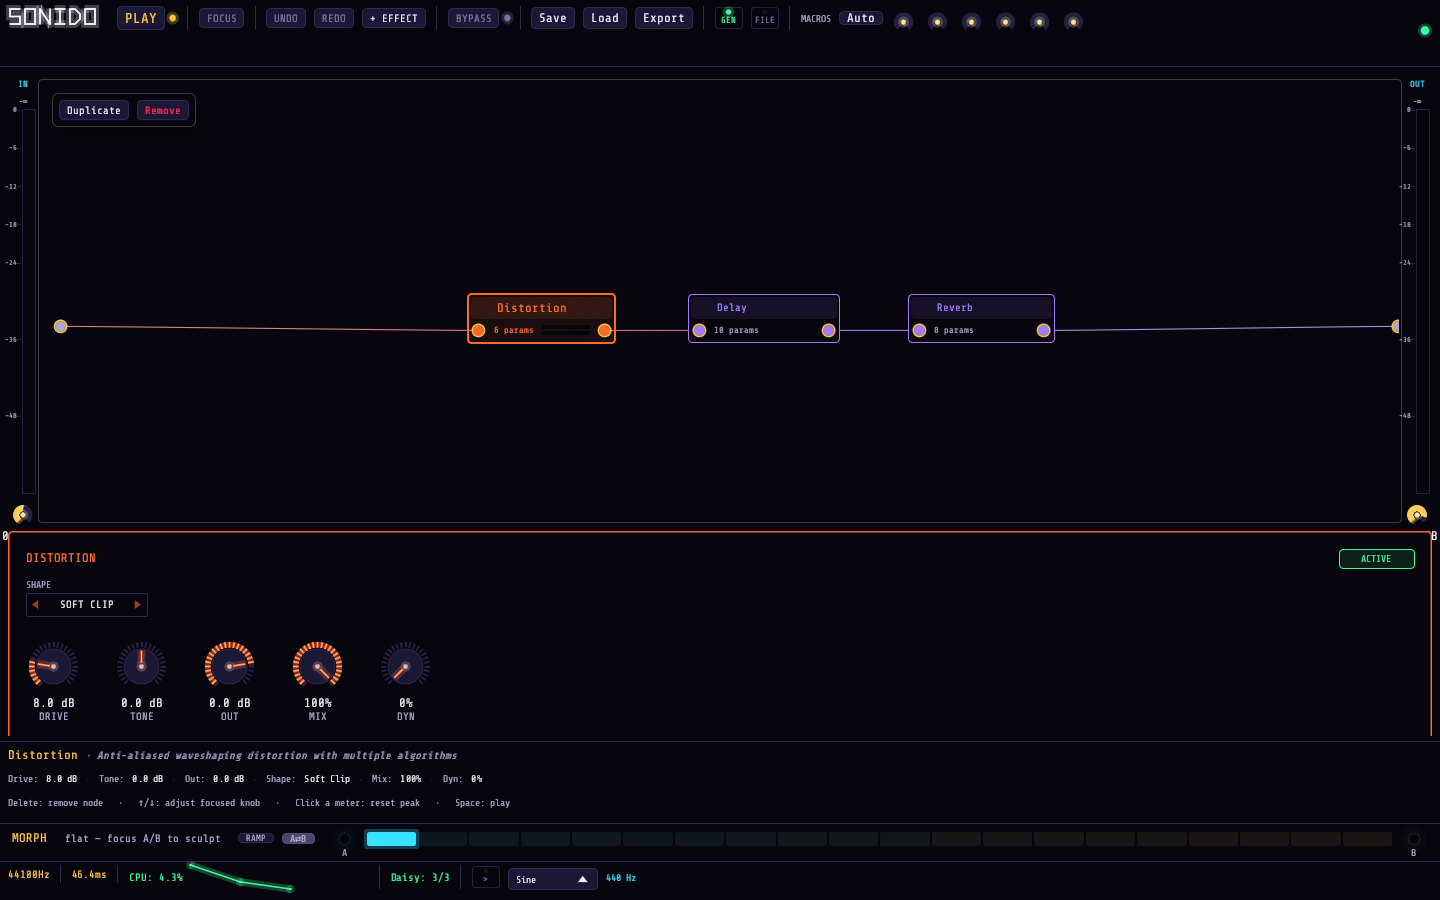
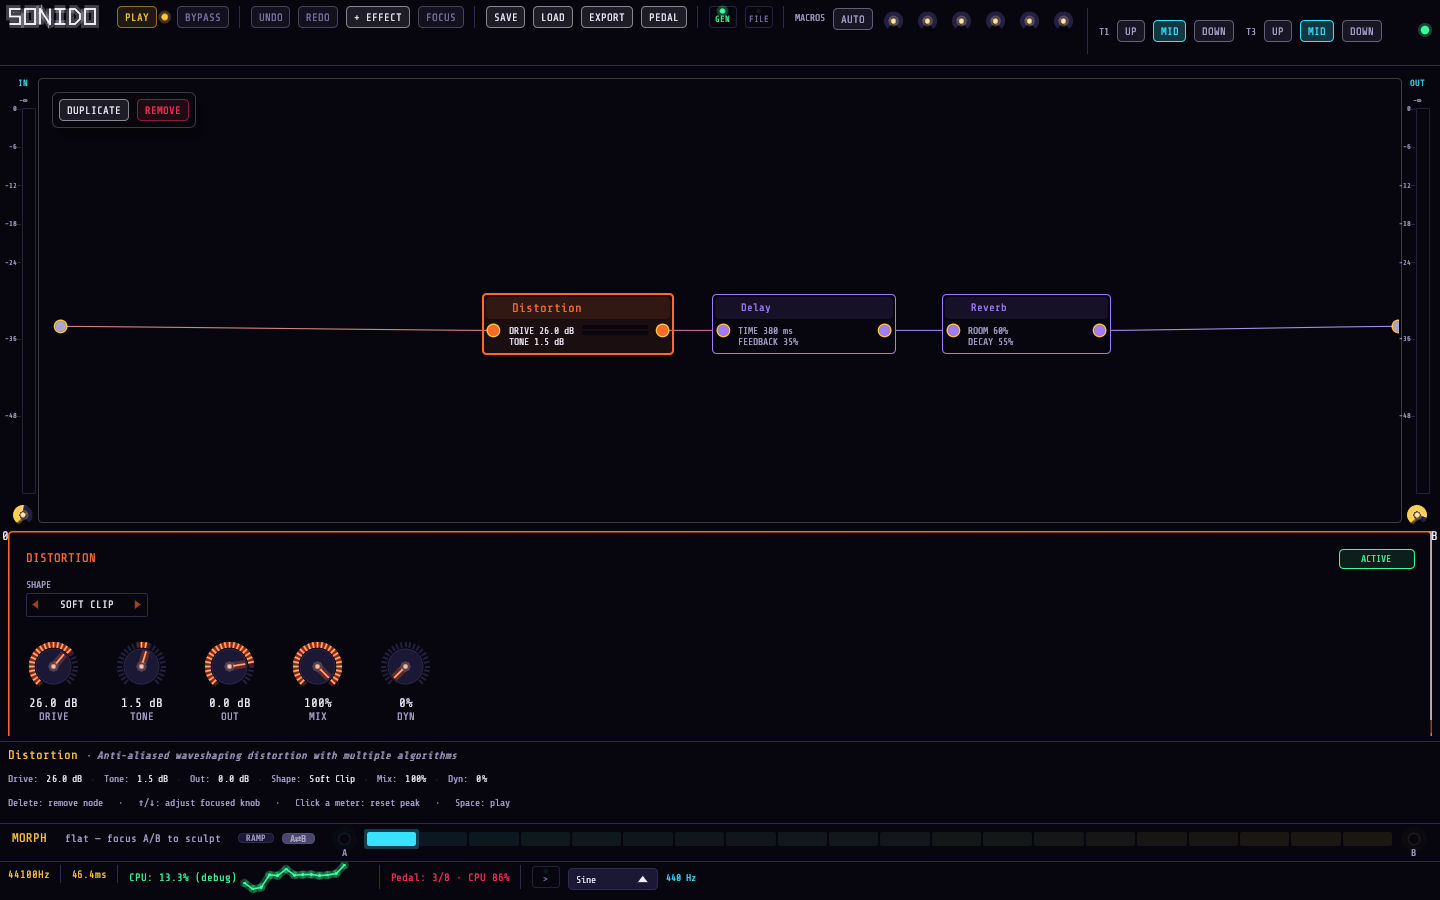
docs: the pictures, the chip, the header and nodes, and new screenshots
DESIGN_SYSTEM.md: the screen's family pictures replace the sun (a table
of what each family shows and where it comes from), bypass shows INSERT
COIN lit and still, the slit and swell lines go, and the chip joins the
components. GUI.md: the header in its groups, nodes with their own
settings and meters, the web build's demo chain and its pause when the
tab is hidden, and the stacked layout on a phone.

cabinets.png is six fresh sonido-preview snapshots (one per family, the
tuner for LINE); editor.png is a fresh --screenshot at 1440x900. Both
were rendered under Xvfb with Mesa's software GL.

Claude-Session: https://claude.ai/code/session_01UFkKvYdY7mZZjCBgs8aXWQ

diff --git a/docs/GUI.md b/docs/GUI.md
@@ -35,7 +35,7 @@ cd crates/sonido-gui
 trunk serve
 ```
 
-Browsers keep audio suspended until a user gesture: the first click, key press, or PLAY resumes it. Hard-refresh (Ctrl+Shift+R) after a rebuild to bypass the cache. There is no headless wasm test runner; the browser is the runtime test. `cargo check` for wasm catches missing `#[cfg]` gates and std-only APIs that the native build doesn't.
+Browsers keep audio suspended until a user gesture: the first click, key press, or PLAY resumes it. Hiding the tab (switching tabs, or leaving the browser for another app on a phone) pauses the transport, and it stays paused when you come back. Hard-refresh (Ctrl+Shift+R) after a rebuild to bypass the cache. There is no headless wasm test runner; the browser is the runtime test. `cargo check` for wasm catches missing `#[cfg]` gates and std-only APIs that the native build doesn't.
 
 The web build differs from native only where a browser tab can't reach: Save/Load use the browser's download and file picker; Export offers patch JSON, the pedal `.bin`, and **Send to pedal** over Web Serial (Chrome and Edge; the browser asks which port to use and lists only the pedal); there is no CLAP-folder write or firmware update. The PEDAL window's controls guide downloads as an HTML page.
 
@@ -70,8 +70,8 @@ sonido-gui --screenshot editor.png --screenshot-size 1440x900
 
 ```
 +---------------------------------------------------------------------------+
-| SONIDO PLAY FOCUS UNDO REDO +EFFECT BYPASS Save Load Export GEN FILE  ... |
-|   ... MACROS Auto (K1)..(K6)                               [errors] (o)   |
+| SONIDO PLAY BYPASS | UNDO REDO +EFFECT FOCUS | SAVE LOAD EXPORT PEDAL |  |
+|   GEN FILE | MACROS AUTO (K1)..(K6) | T1 UP MID DOWN  T3 ...  [errors] (o) |
 +---------------------------------------------------------------------------+
 |IN|                       GRAPH CANVAS                                |OUT|
 |  |   o──[Distortion]──[Delay]──[Reverb]──o                           |   |
@@ -92,17 +92,14 @@ The layout adapts to width. **Desktop** (≥ 900 px) is shown above; on a wide w
 
 ### Header
 
+Every control is a chip (the design system's one text button), in five groups:
+
 - **SONIDO**: the vector wordmark.
-- **PLAY / PAUSE**: one transport for both sources (Space).
-- **FOCUS**: hides the info band and morph band for a full-height canvas (F). Desktop/Tablet.
-- **UNDO / REDO**: structural edits (Ctrl+Z, Ctrl+Shift+Z / Ctrl+Y), 64 steps deep.
-- **+ EFFECT**: opens the ADD EFFECT palette (Desktop/Tablet).
-- **BYPASS**: bypasses the whole chain with a 5 ms crossfade to the dry signal.
-- **Save / Load**: the session as JSON (see [Sessions](#sessions)).
-- **Export**: see [Export](#export).
-- **Pedal**: the PEDAL window (see [The pedal window](#the-pedal-window)).
-- **GEN / FILE**: source select.
-- **MACROS**: **Auto** plus the six macro knobs K1–K6, then the rig's toggles **T1** and **T3** (in the RIG drawer on Phone).
+- **Transport.** **PLAY / PAUSE**, one transport for both sources (Space); **BYPASS**, the whole chain with a 5 ms crossfade to the dry signal.
+- **Edit.** **UNDO / REDO**, structural edits (Ctrl+Z, Ctrl+Shift+Z / Ctrl+Y), 64 steps deep; **+ EFFECT**, the ADD EFFECT palette; **FOCUS**, hides the info and morph bands for a full-height canvas (F). On Phone, **RIG** takes the place of the last two.
+- **Session.** **SAVE / LOAD**, the session as JSON (see [Sessions](#sessions)); **EXPORT** (see [Export](#export)); **PEDAL**, the PEDAL window (see [The pedal window](#the-pedal-window)).
+- **Source.** **GEN / FILE**.
+- **Performance.** **MACROS**: **AUTO** plus the six macro knobs K1–K6, then the pedal's toggle switches **T1** and **T3** (in the RIG drawer on Phone).
 - **Right side**: audio status LED (green running, red stopped), plus, when present, `errors: N` (audio stream errors such as underruns), the last compile error, the last export result, and an audio start error with a **Retry** button.
 
 ### I/O wall bars
@@ -111,10 +108,10 @@ The canvas is flanked by two full-height level meters, **IN** (left) and **OUT**
 
 ## Graph Editor
 
-The canvas is an [egui-snarl](https://crates.io/crates/egui-snarl) node graph. It opens with Input wired straight to Output (plain passthrough).
+The canvas is an [egui-snarl](https://crates.io/crates/egui-snarl) node graph. Natively it opens with Input wired straight to Output (plain passthrough); the web build opens on the demo chain, Distortion → Delay → Reverb, so a visitor sees what it is for.
 
 - **Input / Output**: fixed, one each; they have no menu and can't be selected.
-- **Effect nodes**: any registry effect. The header shows the effect name and the body shows its count of visible parameters. Node, header and wire colors come from the effect's family (`Family::from_category(..).accent()`):
+- **Effect nodes**: any registry effect. The header shows the effect name; the body shows its first two settings, live, in the host's formatting, and under them the node's own L/R output meters (the LED beside the name lights with the same signal). Node, header and wire colors come from the effect's family (`Family::from_category(..).accent()`):
 
 | Category | Family | Color |
 |----------|--------|-------|
@@ -132,12 +129,12 @@ Each effect's category and parameters are listed in [EFFECTS_REFERENCE.md](EFFEC
 - **+ EFFECT**: opens a searchable palette of all effects (type to filter). The pick is appended as the last node before Output and selected.
 - **Right-click canvas**: a search field plus category submenus. The new node is spliced into the wire nearest the click.
 - **Click a node**: selects it and opens its panel. Click empty canvas to deselect.
-- **Selected node**: a floating **Duplicate / Remove** bar appears at the canvas's top-left, and Delete or Backspace removes the node.
-- **Right-click a node**: Remove or Duplicate.
+- **Selected node**: a floating **DUPLICATE / REMOVE** bar appears at the canvas's top-left, and Delete or Backspace removes the node.
+- **Right-click a node**: DUPLICATE or REMOVE.
 - **Drag pin to pin**: wire an output to an input. One output may feed several inputs (fan-out), and an input may take several wires, which are summed (fan-in).
 - **Ctrl+Scroll / pinch**: zoom, clamped to 0.5×–1.5×.
 
-After every structural edit the nodes re-flow left to right by depth. If the last node feeding Output is removed, the nearest remaining node is wired to Output so the graph never goes silent.
+After every structural edit the nodes re-flow left to right by depth; on a canvas too narrow for the columns side by side (a phone), top to bottom. If the last node feeding Output is removed, the nearest remaining node is wired to Output so the graph never goes silent.
 
 **Compilation.** Every structural edit recompiles automatically. The compiler walks the snarl topology, inserts Split nodes for fan-out and Merge nodes for fan-in (so you never place them yourself), builds a `ProcessingGraph`, creates the effects through the registry, and sends a `GraphCommand::ReplaceTopology` that the audio thread swaps in at the next buffer. Explicit Split/Merge nodes in older sessions still load and compile.
 
@@ -148,7 +145,7 @@ Selecting an effect node opens its panel below the canvas, framed in the effect'
 - **Title row**: the effect name, an **ACTIVE / BYPASSED** toggle (a click-free per-effect bypass), and, once the morph is active, a **LOCK** toggle that holds this effect still while the morph sweeps the rest of the rig.
 - **Stepped parameters**: `cabinet::selector`, which draws segmented buttons for a few short options and otherwise a ◀ value ▶ stepper (click the value to advance, scroll to step).
 - **Continuous parameters**: LED-ring knobs in the family color (`bridged_knob_accent`), with the formatted value and the label under each ring. Ranges that span zero fill from twelve o'clock. When an effect has distinct A/B poses, cyan and amber ghost ticks mark each knob's A and B values.
-- **Every** visible parameter is shown, so the node's "N params" count matches the panel. Read-only and hidden parameters are skipped.
+- **Every** visible parameter is shown; the node's readout is the first two of them. Read-only and hidden parameters are skipped.
 - **The looper** has its own transport panel instead.
 
 **Knob controls:** drag vertically (Shift for fine), scroll the mouse wheel over a knob (Shift for fine), use Up/Down on a focused knob (1 % per press, Shift 0.2 %), use Left/Right to move focus between knobs, and double-click to reset to default.

diff --git a/docs/DESIGN_SYSTEM.md b/docs/DESIGN_SYSTEM.md
@@ -19,7 +19,7 @@ A vector-display arcade machine at night (Tempest, Battlezone): thin beams of li
 3. **Fixed edges.** Power is always top-right, the status line is always bottom-left, and meters are always IN on the left and OUT on the right.
 4. **Light carries meaning, text carries values.** Values are bright neutral text; labels are muted. Color marks family, level and state, in short marks, never in body text.
 5. **Readable through the glass.** Curvature, scanlines and aberration apply only inside the screen. Every control and every value stays outside it, crisp.
-6. **Bypass is "game over", not hidden.** A bypassed cabinet dims the screen and blinks INSERT COIN; every control stays visible and live.
+6. **Bypass is "game over", not hidden.** A bypassed cabinet dims the screen and shows INSERT COIN, lit and still; every control stays visible and live.
 
 ## Tokens
 
@@ -88,12 +88,26 @@ Level is never color alone: segments have position, the CLIP latch says CLIP, an
 **Cabinet** (`cabinet::Cabinet`): the whole plugin window, top to bottom:
 
 - **Marquee.** The SONIDO wordmark over `FX//<FAMILY>`, a partner-colored slash, the effect name in slanted Sonido Vector, speed stripes graded partner→accent, and the power button.
-- **Screen**, between the IN and OUT meters. A starfield, a banded sun sinking into the horizon (its slits scroll), and a perspective grid whose speed follows output level. The scope overlays them, plus any read-only readouts (e.g. GR on the compressor). The tuner replaces the sun with a big note readout and a ±50 ¢ needle.
+- **Screen**, between the IN and OUT meters. A starfield over a perspective grid whose speed follows output level, the scope across the sky, and in the middle a dark plate with the family's picture ([`picture.rs`](../crates/sonido-gui-core/src/picture.rs)), plus any read-only readouts (e.g. GR on the compressor). Every picture is real data: measured from a private copy of the effect's own kernel with the plugin's current values, or computed from the live tap.
+
+  | Family | Picture | Source |
+  |---|---|---|
+  | HEAT | transfer curve, output against input (scaled to its own peak, since effects are level-matched) | kernel: a full-scale 100 Hz sine |
+  | VOLT | level curve, dB in against dB out, with a dot where the signal is now | kernel: a 1 kHz sine stepped in 3 dB levels |
+  | WAVE | frequency response, 20 Hz–20 kHz, ±24 dB | kernel: an impulse |
+  | ECHO | impulse response envelope over 2.5 s: taps and decays (a synced delay says SYNC @ 120 BPM, the kernel's own tempo without a host) | kernel: an impulse, at 24 kHz |
+  | FLUX, RIG | live spectrum, input ghost against output beam, with the LFO's phase where the kernel publishes it | tap |
+  | LINE | stereo field (mid up, side across) | tap |
+  | tuner | a big note readout and a ±50 ¢ needle | — |
+
+  The kernel pictures re-measure when a value changes, at most ten times a second while a knob moves.
 - **Deck.** Selectors first, flowed left to right, then a centered grid of knobs.
 - **Rig HUD** (graph player only, `Cabinet::set_rig`). The rig's name and its chain as chips in each effect's family color, top-left of the sky. With no rig loaded, the screen says NO RIG LOADED and where rigs come from.
 - **Footer.** The status line on the left: the name and value of whatever is under the pointer, otherwise the effect's description. Engine facts and the CRT switch sit on the right.
 
 `Cabinet::new(effect_id)` lights a cabinet from the registry; `Cabinet::custom(id, title, description, family)` builds one for something that isn't a single effect, as the graph player does. `cabinet::preferred_size(&descriptors)` gives the window size: 720 pt wide, and tall enough to fit the deck with no scrolling.
+
+**Chip** (`widgets::chip`, `chip_button`): the one text button, in the editor's header, menus and toggles. Uppercase Share Tech Mono 11 on a tint of its own color (10%, 22% when active), outlined in that color, at least 22 pt tall. Color carries state: amber stopped, green playing, red bypassed or destructive, `text_dim` unavailable.
 
 **Knob** (`Knob`, bound by `bridged_knob_accent`): a 25-segment LED ring over a dark well, with lit segments in the accent and unlit ones in `dim`. A range centered on zero fills from twelve o'clock. Interaction:
 
@@ -115,9 +129,7 @@ The value is shown in the host's own formatting (`ParamDescriptor::format_value`
 Motion is ambient and audio-reactive, and it stops when the plugin is bypassed:
 
 - The grid scrolls at 0.25 + 2.2 × output energy rows per second.
-- The sun's slits drift down, and it swells by up to 5% with energy.
 - Stars twinkle at individual rates.
-- INSERT COIN blinks at 1.2 Hz with a 62% duty cycle.
 
 The UI repaints every frame the host gives it.
 
